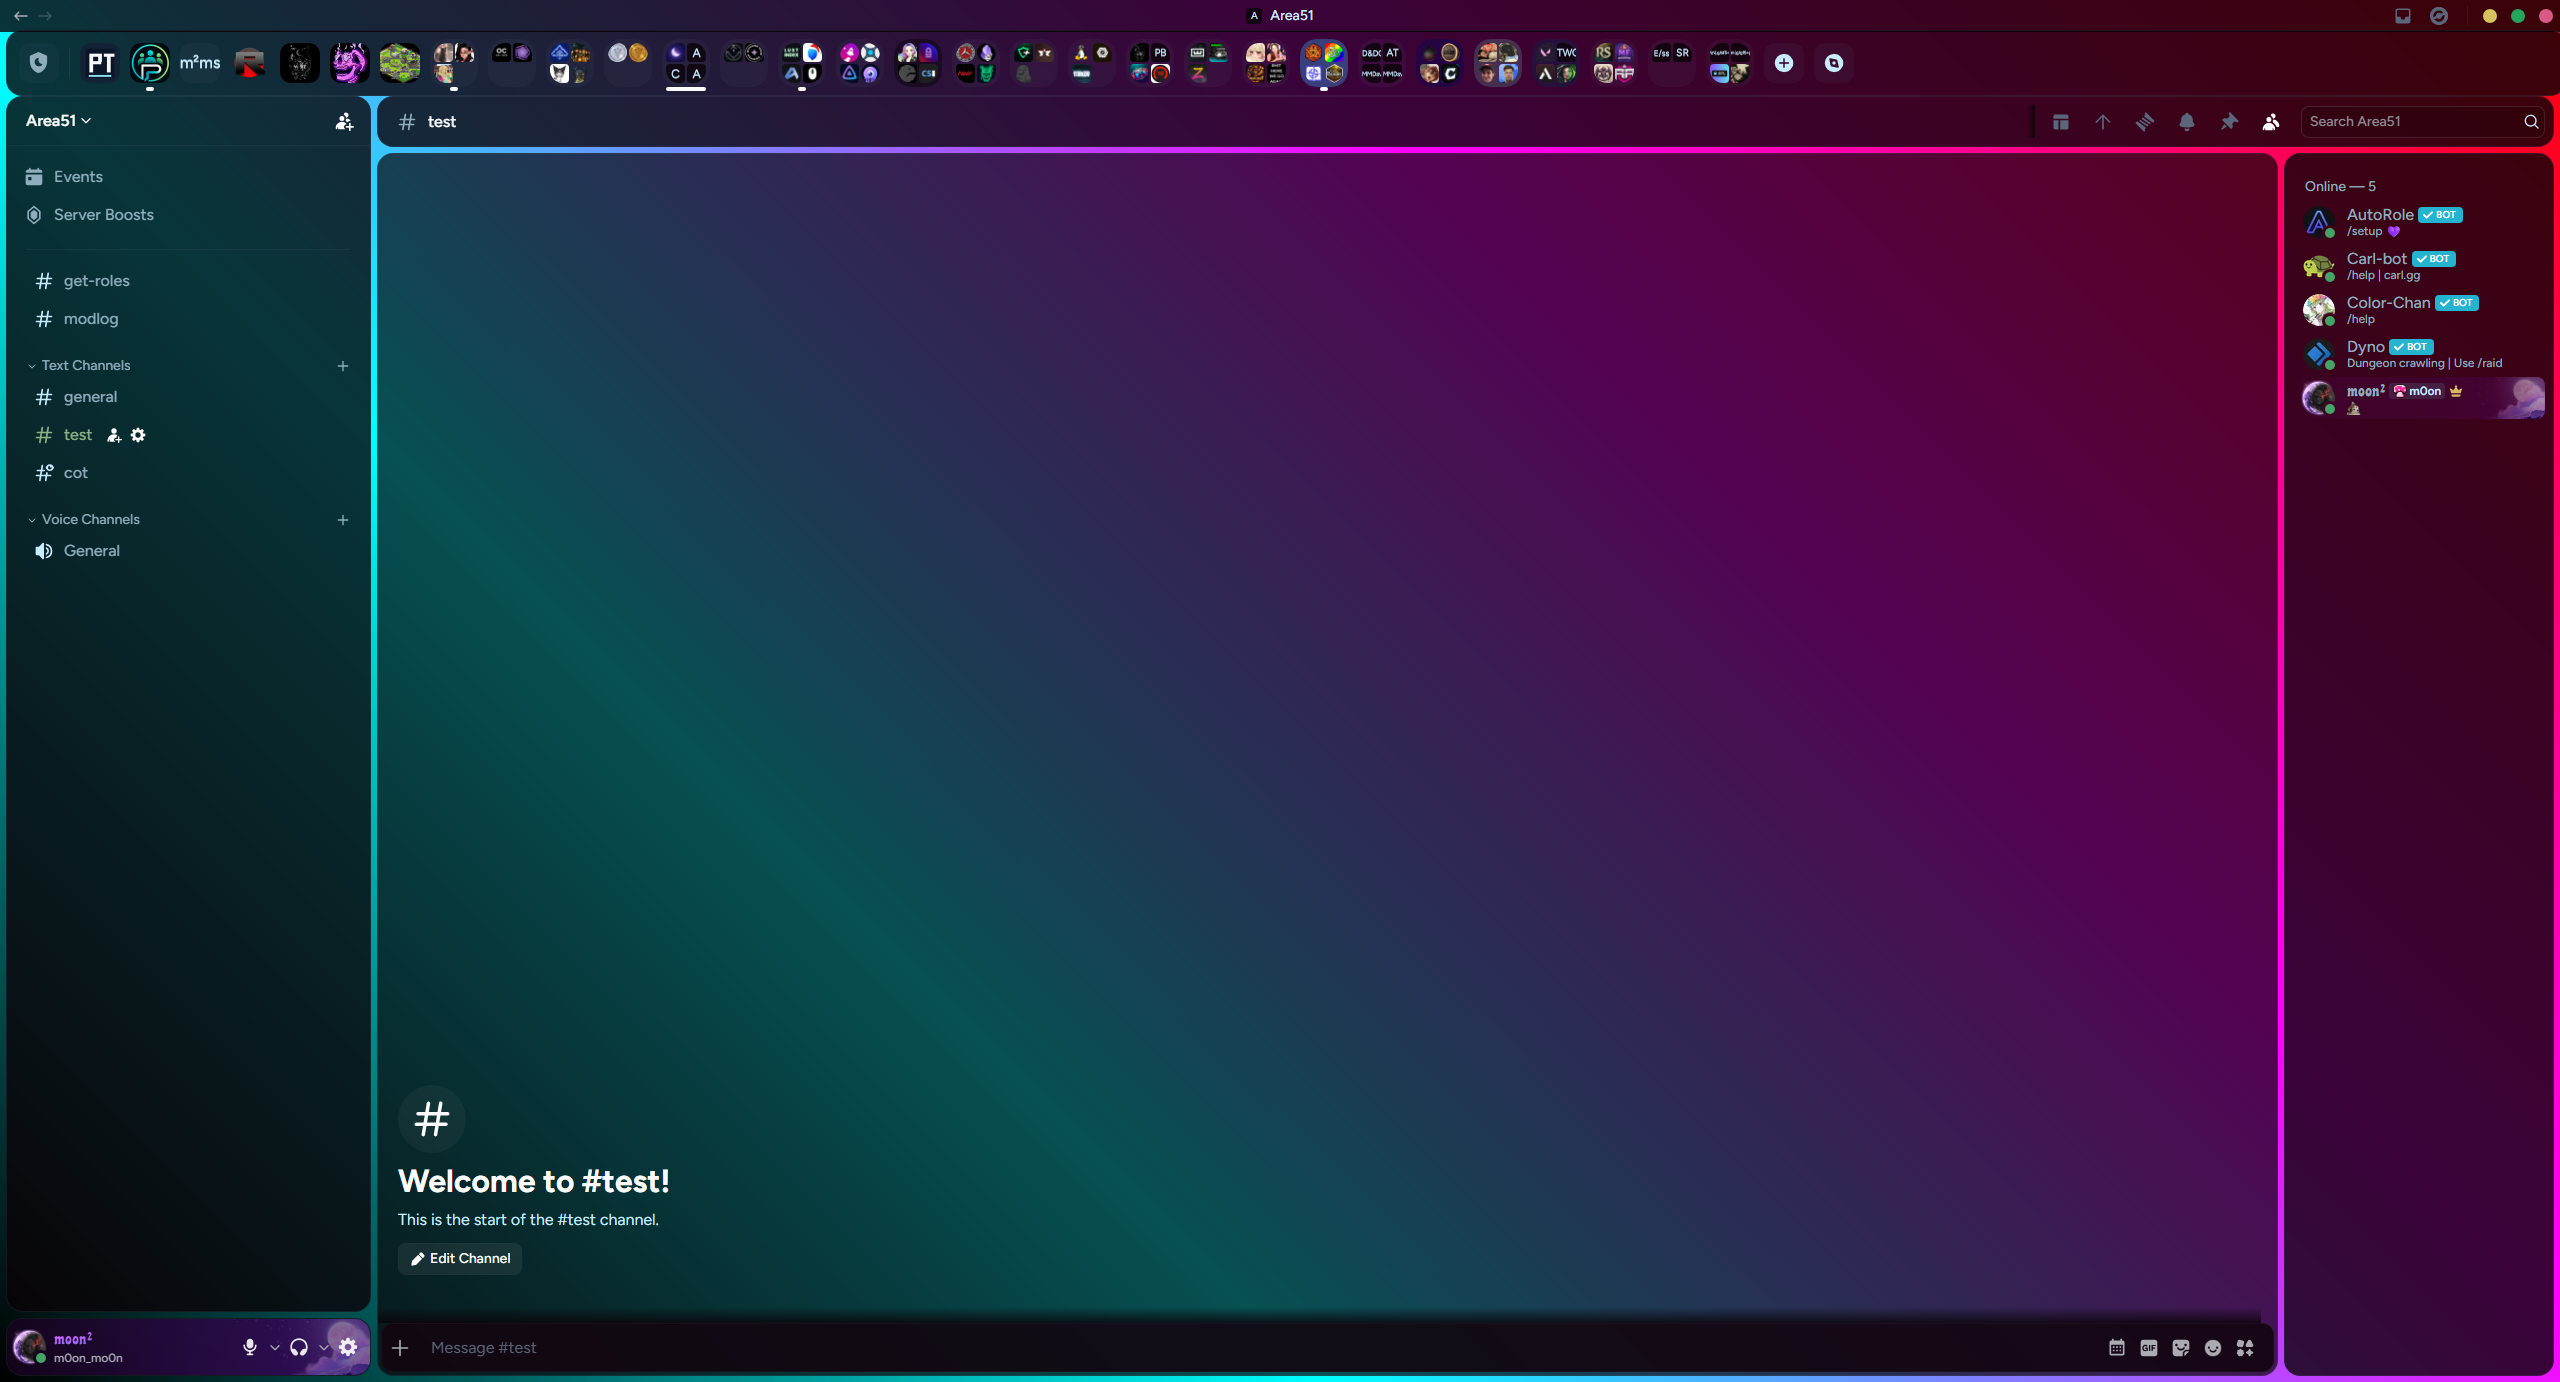
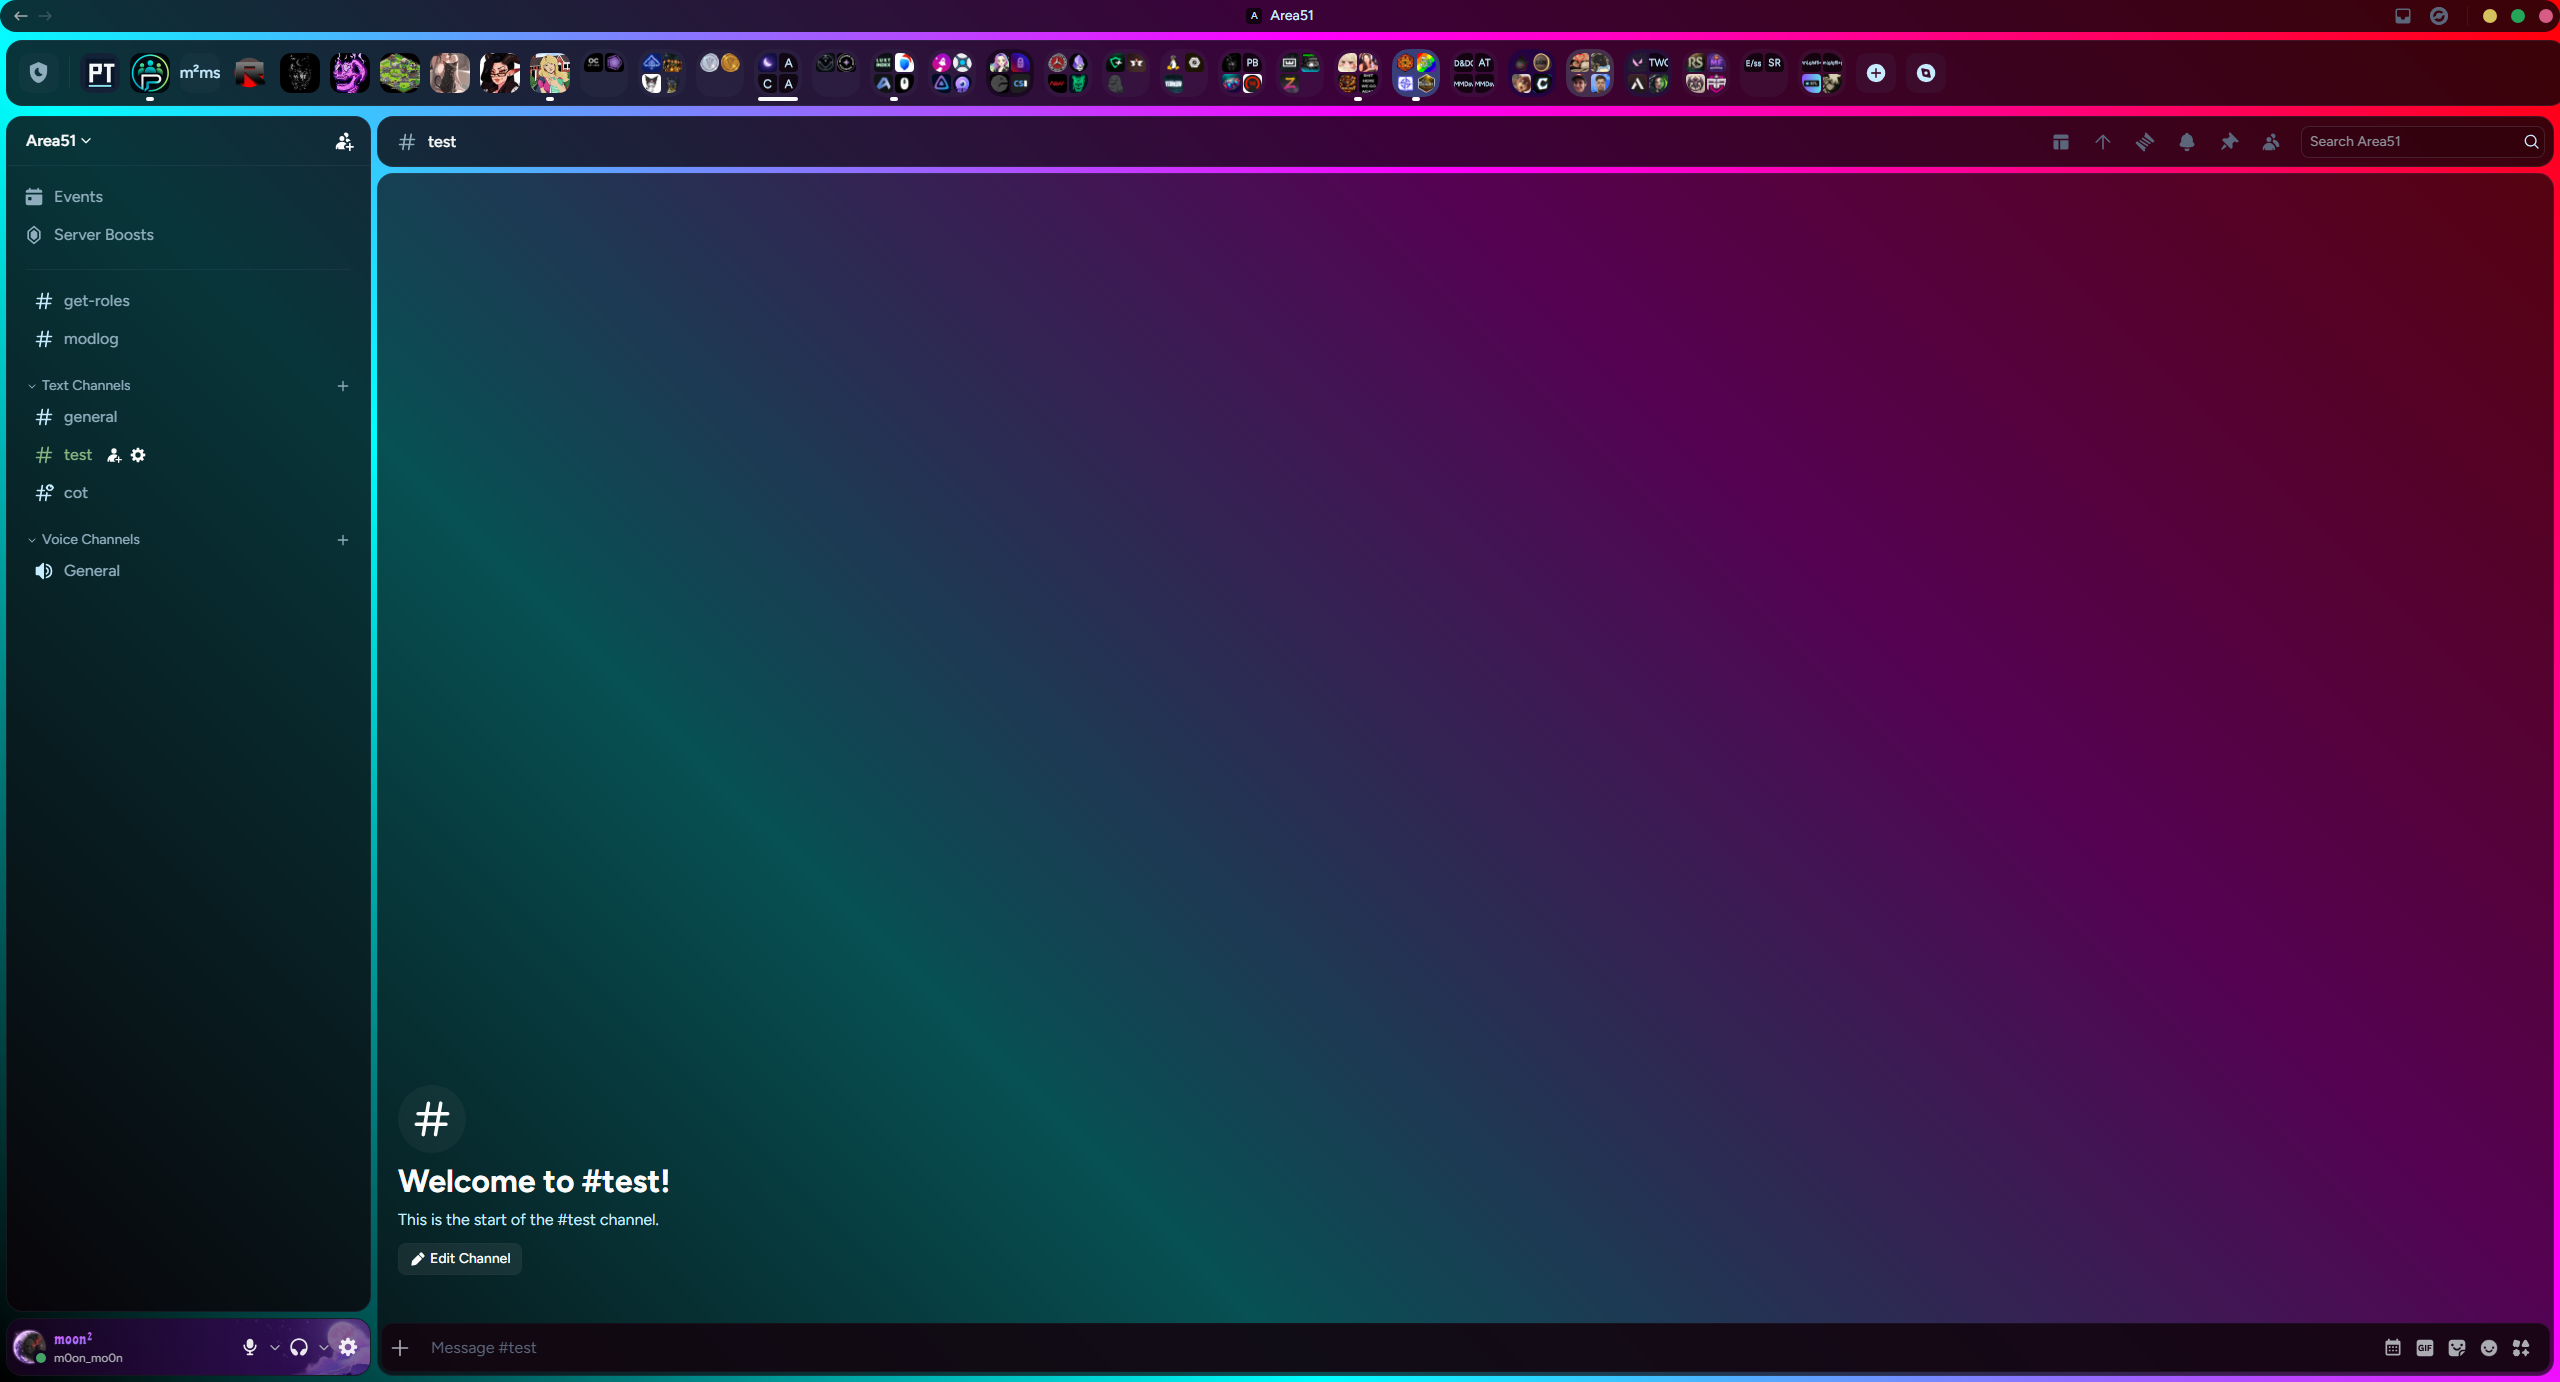
Cards: title strip island, no chat fade, horizontal list gap, new previews
- title strip is a rounded island with a gap below it (Discord+ approach:
  border-radius on the strip, margin-top on the content below it)
- --transparency-tweaks on and chatGradient hidden: removes the dark fade
  above the message box that showed against the gradient background
- overlays/cards-hsl.css: gap between the horizontal server list and the
  panels below it (appended by build.py to the cards horizontal build only)
- README layout line and refreshed cards screenshots and thumbnail

Changed region(s): [[0.0, 0.0, 1.0, 0.9957]]

diff --git a/dist/midnight-cards-hsl.theme.css b/dist/midnight-cards-hsl.theme.css
@@ -2185,6 +2185,10 @@ button[aria-label="Apps"] {
    ===================================================================== */
 
 body {
+    /* hides Discord's built-in shadow fade above the message box (and the one under the chat header),
+       which shows up as a dark band against the gradient background */
+    --transparency-tweaks: on;
+
     /* user panel spans the full sidebar width (instead of the small panel under the channel list) */
     --small-user-panel: off;
 
@@ -2281,4 +2285,40 @@ body {
 [class*="systemBar_"][class*="bar_"],
 [class^="bar_"]:has(> [class^="title_"]) /* main window bar: bar_ theme-dark theme-darker images-dark */ {
     background: var(--bg-4) !important; /* same as the other panels */
+}
+
+/* Window title strip as its own island (the way Discord+ does it, see its "9 Titlebar" and
+   "3.2 Margins" sections): the strip gets rounded corners and the app content below it gets a
+   margin-top, which opens the gap. The content is the strip's later sibling. With the horizontal
+   server list, Gibbu's rule already sets that margin to the list's height (--serverlist-offset),
+   so the gap is added on top of it (the variable is undefined, i.e. 0, in the vertical files). */
+body {
+    --titlebar-gap: 10px; /* space between the title strip and the panels below it */
+}
+.visual-refresh [class^="bar_"]:has(> [class^="title_"]) {
+    border-radius: var(--radius-lg);
+}
+.visual-refresh [class^="bar_"]:has(> [class^="title_"]) ~ [class*="content_"] {
+    margin-top: calc(var(--serverlist-offset, 0px) + var(--titlebar-gap));
+}
+
+/* Discord's chat fade gradients (Discord+ clears these too) */
+.visual-refresh [class*="chatGradient_"],
+.visual-refresh [class*="chatGradientBase_"] {
+    background: transparent;
+    display: none;
+}
+
+/* Cards + horizontal server list only (appended by build.py after cards.css).
+   Gives the horizontal server list its own gap above the channel list and chat.
+   Gibbu's list is glued to the top edge of the content (it is rotated up out of the sidebar), so
+   the content moves down by one more gap and the list moves up by the same amount. */
+body {
+    --serverlist-gap: 10px; /* space between the horizontal server list and the panels below it */
+}
+.visual-refresh [class^="bar_"]:has(> [class^="title_"]) ~ [class*="content_"] {
+    margin-top: calc(var(--serverlist-offset) + var(--titlebar-gap) + var(--serverlist-gap));
+}
+.visual-refresh [class*="guilds_"] {
+    translate: 0 calc(-1 * var(--serverlist-gap));
 }

diff --git a/dist/midnight-cards.theme.css b/dist/midnight-cards.theme.css
@@ -2179,6 +2179,10 @@ button[aria-label="Apps"] {
    ===================================================================== */
 
 body {
+    /* hides Discord's built-in shadow fade above the message box (and the one under the chat header),
+       which shows up as a dark band against the gradient background */
+    --transparency-tweaks: on;
+
     /* user panel spans the full sidebar width (instead of the small panel under the channel list) */
     --small-user-panel: off;
 
@@ -2275,4 +2279,26 @@ body {
 [class*="systemBar_"][class*="bar_"],
 [class^="bar_"]:has(> [class^="title_"]) /* main window bar: bar_ theme-dark theme-darker images-dark */ {
     background: var(--bg-4) !important; /* same as the other panels */
+}
+
+/* Window title strip as its own island (the way Discord+ does it, see its "9 Titlebar" and
+   "3.2 Margins" sections): the strip gets rounded corners and the app content below it gets a
+   margin-top, which opens the gap. The content is the strip's later sibling. With the horizontal
+   server list, Gibbu's rule already sets that margin to the list's height (--serverlist-offset),
+   so the gap is added on top of it (the variable is undefined, i.e. 0, in the vertical files). */
+body {
+    --titlebar-gap: 10px; /* space between the title strip and the panels below it */
+}
+.visual-refresh [class^="bar_"]:has(> [class^="title_"]) {
+    border-radius: var(--radius-lg);
+}
+.visual-refresh [class^="bar_"]:has(> [class^="title_"]) ~ [class*="content_"] {
+    margin-top: calc(var(--serverlist-offset, 0px) + var(--titlebar-gap));
+}
+
+/* Discord's chat fade gradients (Discord+ clears these too) */
+.visual-refresh [class*="chatGradient_"],
+.visual-refresh [class*="chatGradientBase_"] {
+    background: transparent;
+    display: none;
 }

diff --git a/overlays/cards.css b/overlays/cards.css
@@ -5,6 +5,10 @@
    ===================================================================== */
 
 body {
+    /* hides Discord's built-in shadow fade above the message box (and the one under the chat header),
+       which shows up as a dark band against the gradient background */
+    --transparency-tweaks: on;
+
     /* user panel spans the full sidebar width (instead of the small panel under the channel list) */
     --small-user-panel: off;
 
@@ -101,4 +105,26 @@ body {
 [class*="systemBar_"][class*="bar_"],
 [class^="bar_"]:has(> [class^="title_"]) /* main window bar: bar_ theme-dark theme-darker images-dark */ {
     background: var(--bg-4) !important; /* same as the other panels */
+}
+
+/* Window title strip as its own island (the way Discord+ does it, see its "9 Titlebar" and
+   "3.2 Margins" sections): the strip gets rounded corners and the app content below it gets a
+   margin-top, which opens the gap. The content is the strip's later sibling. With the horizontal
+   server list, Gibbu's rule already sets that margin to the list's height (--serverlist-offset),
+   so the gap is added on top of it (the variable is undefined, i.e. 0, in the vertical files). */
+body {
+    --titlebar-gap: 10px; /* space between the title strip and the panels below it */
+}
+.visual-refresh [class^="bar_"]:has(> [class^="title_"]) {
+    border-radius: var(--radius-lg);
+}
+.visual-refresh [class^="bar_"]:has(> [class^="title_"]) ~ [class*="content_"] {
+    margin-top: calc(var(--serverlist-offset, 0px) + var(--titlebar-gap));
+}
+
+/* Discord's chat fade gradients (Discord+ clears these too) */
+.visual-refresh [class*="chatGradient_"],
+.visual-refresh [class*="chatGradientBase_"] {
+    background: transparent;
+    display: none;
 }

diff --git a/overlays/cards-hsl.css b/overlays/cards-hsl.css
@@ -1,0 +1,14 @@
+
+/* Cards + horizontal server list only (appended by build.py after cards.css).
+   Gives the horizontal server list its own gap above the channel list and chat.
+   Gibbu's list is glued to the top edge of the content (it is rotated up out of the sidebar), so
+   the content moves down by one more gap and the list moves up by the same amount. */
+body {
+    --serverlist-gap: 10px; /* space between the horizontal server list and the panels below it */
+}
+.visual-refresh [class^="bar_"]:has(> [class^="title_"]) ~ [class*="content_"] {
+    margin-top: calc(var(--serverlist-offset) + var(--titlebar-gap) + var(--serverlist-gap));
+}
+.visual-refresh [class*="guilds_"] {
+    translate: 0 calc(-1 * var(--serverlist-gap));
+}

diff --git a/build.py b/build.py
@@ -46,6 +46,11 @@ OVERLAYS = {
     'cards':       ['overlays/cards.css'],
 }
 
+# extra overlay files appended only to the horizontal-server-list builds
+OVERLAYS_HSL = {
+    'cards':       ['overlays/cards-hsl.css'],
+}
+
 
 def build(flavor, hsl):
     src = read('src/midnight.theme.css')
@@ -71,7 +76,7 @@ def build(flavor, hsl):
     src = re.sub(r'(@name [^\n]*?)\s*\n', lambda m: m.group(1) + name_suffix + '\n', src, count=1)
 
     out = src.rstrip() + '\n'
-    for overlay in OVERLAYS[flavor]:
+    for overlay in OVERLAYS[flavor] + (OVERLAYS_HSL.get(flavor, []) if hsl else []):
         out += '\n' + read(overlay).strip() + '\n'
 
     name = f"midnight{file_suffix}{'-hsl' if hsl else ''}.theme.css"

diff --git a/README.md b/README.md
@@ -109,6 +109,7 @@ src/midnight.theme.css      the full theme (source of truth)
 overlays/zelk.css           zelk colour palette only
 overlays/zelk-look.css      zelk gaps, extras and selected-channel pill
 overlays/cards.css          message cards, gradient background, plum panels, betterfolders fix
+overlays/cards-hsl.css      extra spacing for the cards flavor with the horizontal server list
 build.py                    builds every flavor x layout into dist/
 dist/                       generated themes (committed so they can be downloaded directly)
 assets/                     preview screenshots (tools/make-thumbs.py makes the thumbnails)
